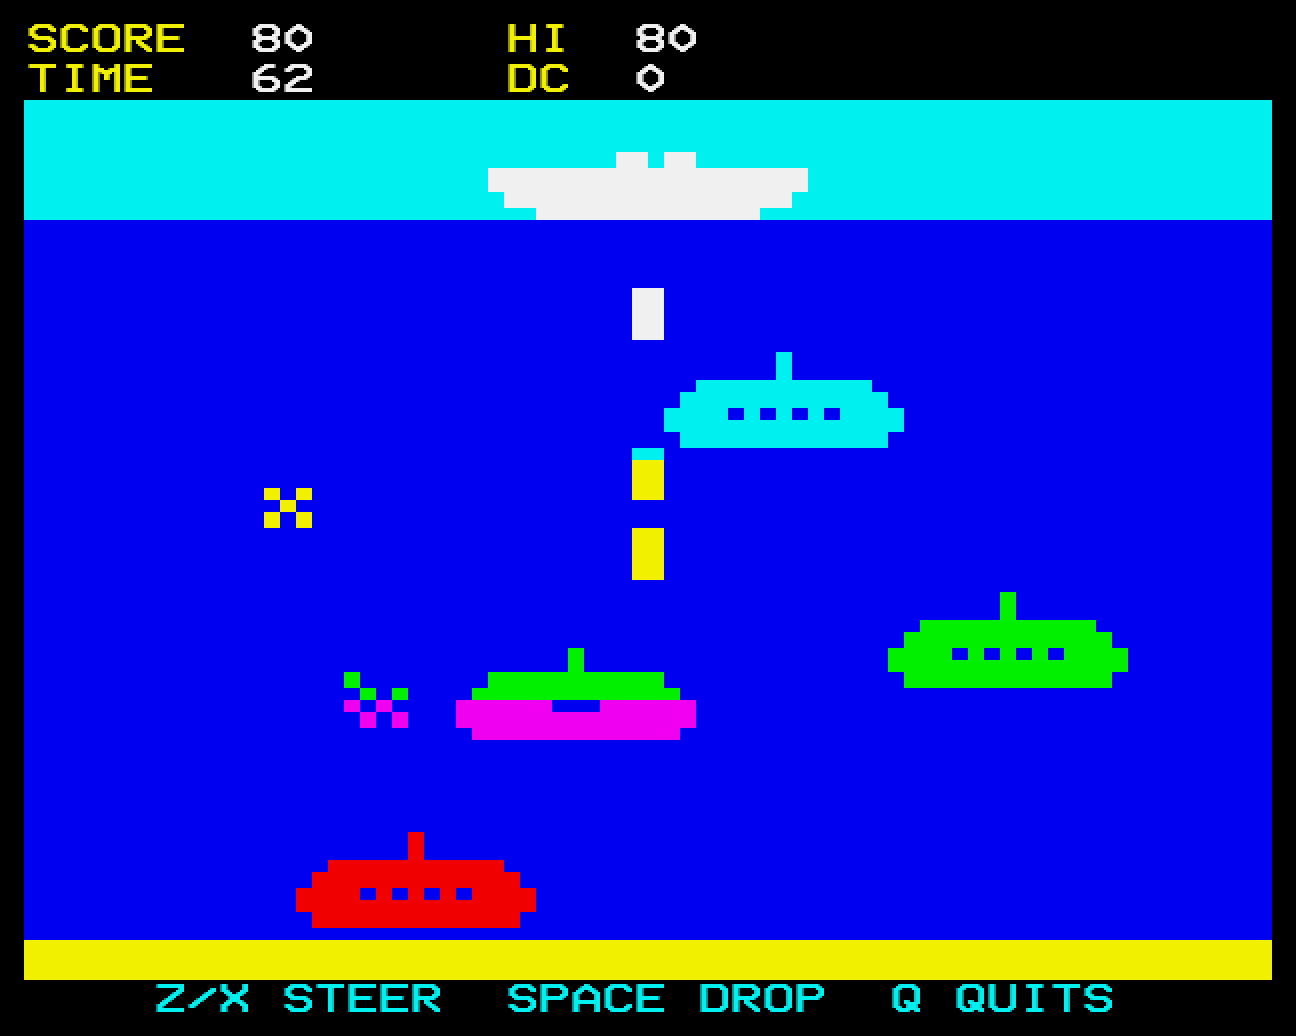
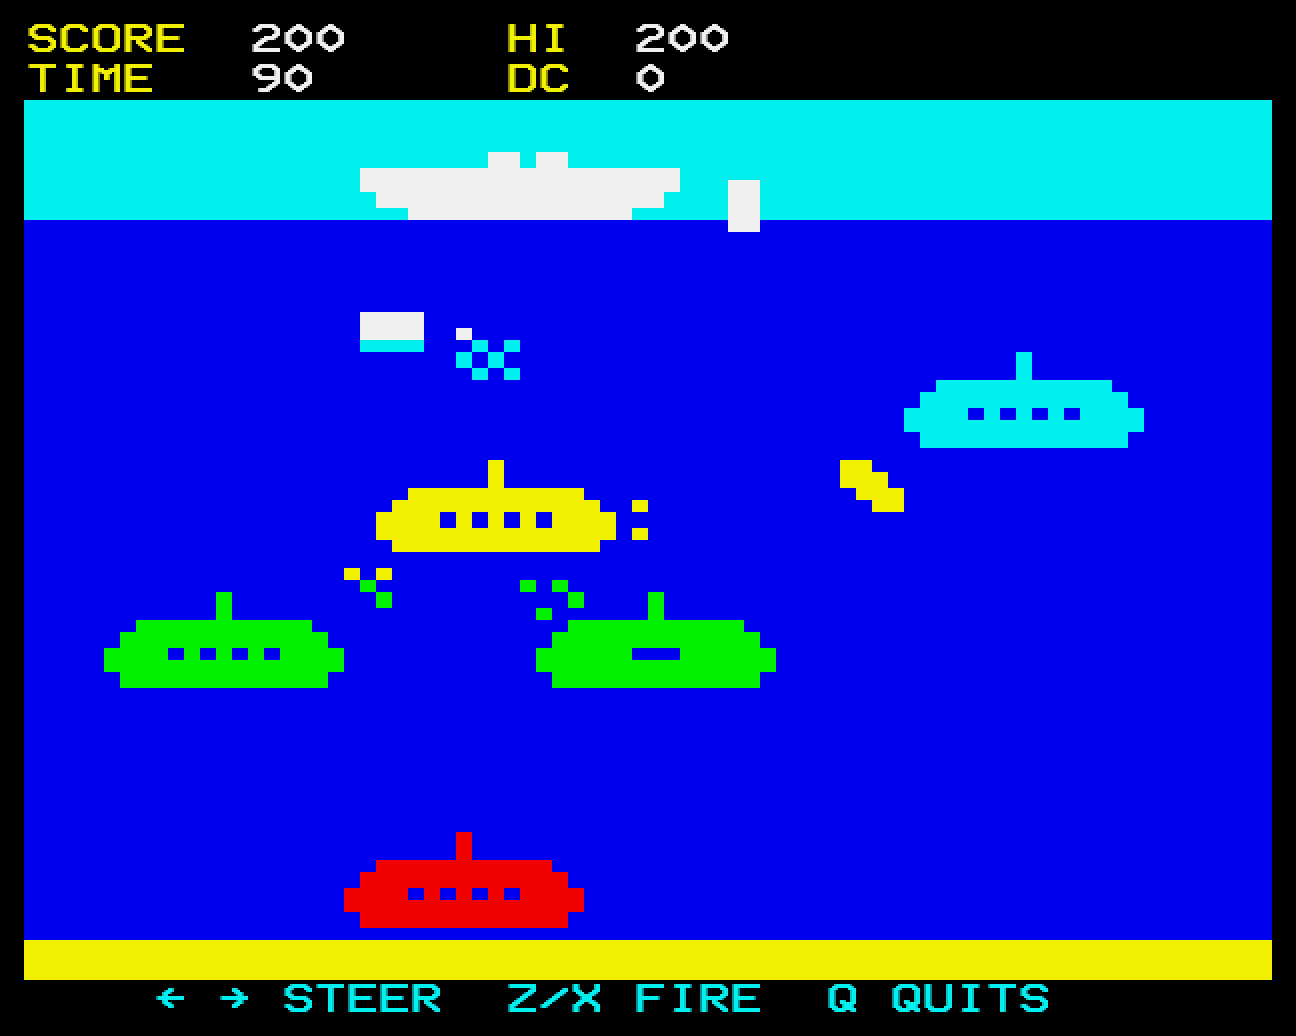
README: refresh screenshots for the lob, spin and puffs
Captured from jsbeeb with the game frozen between frames so both
interlace fields show the same finished picture; cropped as before.

diff --git a/README.md b/README.md
@@ -7,7 +7,7 @@ The original is a PICO-8 take on the old arcade classic, also playable on the
 [Lexaloffle BBS](https://www.lexaloffle.com/bbs/?tid=4045) (`load #depthcharge` in PICO-8).
 
 <p align="center">
-  <img src="screenshots/play.png" alt="In play: three charges dropping, a sunk sub sinking through the lanes, mines rising" width="49%">
+  <img src="screenshots/play.png" alt="In play: a charge lobbed off the starboard side, two more tumbling as they sink, a sunk sub sinking through the lanes under the puff from the hit, a mine rising" width="49%">
   <img src="screenshots/title.png" alt="Title screen" width="49%">
 </p>
 
